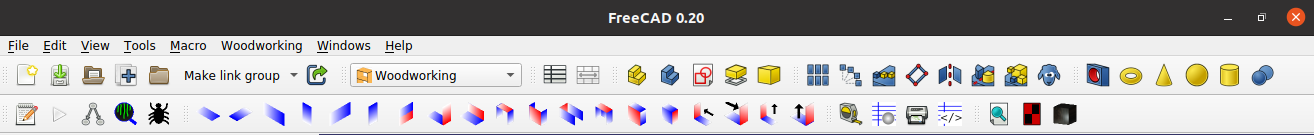
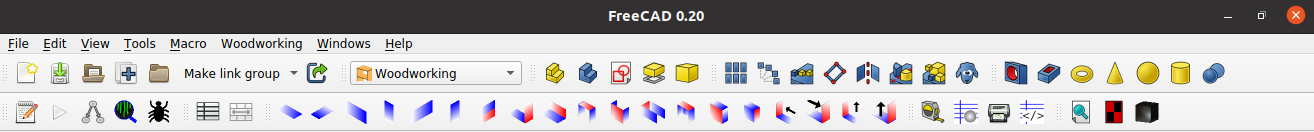
support for PartDesign Pocket

diff --git a/Tools/getDimensions.py b/Tools/getDimensions.py
@@ -2,7 +2,7 @@
 
 # FreeCAD macro for woodworking
 # Author: Darek L (aka dprojects)
-# Version: 2022.04.17
+# Version: 2022.04.20
 # Latest version: https://github.com/dprojects/getDimensions
 
 import FreeCAD, FreeCADGui, Draft, Spreadsheet
@@ -695,24 +695,11 @@ def getGroup(iObj, iCaller="getGroup"):
 	# init variable
 	vGroup = ""
 
-	# support for Cube furniture part
-	if iObj.isDerivedFrom("Part::Box"):
-		
-		# get grandparent
-		try:
-			vGroup = iObj.getParentGroup().getParentGroup().Label
-		except:
-			vGroup = ""
-		
-		# get parent
-		if vGroup == "":
-			try:
-				vGroup = iObj.getParentGroup().Label
-			except:
-				vGroup = ""
-			
-	# support for Pad furniture part
-	elif iObj.isDerivedFrom("PartDesign::Pad"):
+	# support for Pad furniture part and Pockets
+	if (
+		iObj.isDerivedFrom("PartDesign::Pad") or 
+		iObj.isDerivedFrom("PartDesign::Pocket")
+		):
 		
 		# get grandparent
 		try:
@@ -727,6 +714,22 @@ def getGroup(iObj, iCaller="getGroup"):
 			except:
 				vGroup = ""
 
+	# support for Cube furniture part and other calls
+	else:
+		
+		# get grandparent
+		try:
+			vGroup = iObj.getParentGroup().getParentGroup().Label
+		except:
+			vGroup = ""
+		
+		# get parent
+		if vGroup == "":
+			try:
+				vGroup = iObj.getParentGroup().Label
+			except:
+				vGroup = ""
+	
 	return vGroup
 
 
@@ -1298,12 +1301,18 @@ def selectFurniturePart(iObj, iCaller="selectFurniturePart"):
 
 		# only named constraints
 		if sLTF == "c":
-			if iObj.isDerivedFrom("PartDesign::Pad"):
+			if (
+				iObj.isDerivedFrom("PartDesign::Pad") or
+				iObj.isDerivedFrom("PartDesign::Pocket")
+				):
 				setConstraints(iObj, iCaller)
 
 		# pads (all constraints)
 		if sLTF == "p":
-			if iObj.isDerivedFrom("PartDesign::Pad"):
+			if (
+				iObj.isDerivedFrom("PartDesign::Pad") or
+				iObj.isDerivedFrom("PartDesign::Pocket")
+				):
 				setAllConstraints(iObj, iCaller)
 
 	# constraints or detailed

diff --git a/loadToolbar.py b/loadToolbar.py
@@ -62,6 +62,7 @@ def getItems(iType):
 		
 		parts = [
 			"PartDesign_Hole",
+			"PartDesign_Pocket",
 			"Part_Torus",
 			"Part_Cone",
 			"Part_Sphere",
